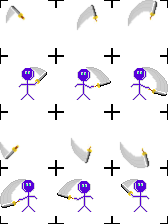
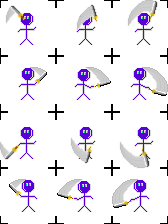
fixed the animation problems! now it kinda works! but it needs more fleshing out.

diff --git a/src/player.py b/src/player.py
@@ -1,8 +1,9 @@
 import pygame as pg
-from .sprite import Character
+from .sprite import Character, Decal
 from .compass import Compass
 
 DEFAULT_ANIMATION = 'stand'
+NULL_PATH = "./assets/dummy/null.png"
 
 class Player(Character):
     def __init__(self, **options):
@@ -27,6 +28,13 @@ class Player(Character):
         self.key_frame_groups = {}
         self.animation = {}
         self.default_image = self.image
+        self.alt_image = Decal(**{
+            "game": self.game,
+            "asset_path": NULL_PATH,
+            "startx":0,
+            "starty":0,
+        })
+        self.game.groups['player'].add(self.alt_image)
 
         for animation in self.options['animations']:
             # load in each animation for a character 
@@ -63,9 +71,9 @@ class Player(Character):
                 ]
             self.animation[animation['id']] = animation
             self.animation[animation['id']]['key_frames'] = key_frame_group
-            
-        # TODO: make it so the group can change  
+             
         self.animate_data = self.animation[DEFAULT_ANIMATION]
+        self.null_image = self.animation['null']['key_frames'][0][0]
 
 
     def update(self):
@@ -97,19 +105,17 @@ class Player(Character):
 
 
     def set_image(self, image):
+        if self.image == self.null_image:
+            self.alt_image.image = self.null_image
         self.image = image
         if image is None: return
-        # rect = self.image.get_rect()
-        # if self.rect.size != rect.size: return
-        # center = self.rect.center
-        # self.rect = rect
-        # self.mask = pg.mask.from_surface(self.image)
-        # self.rect.center = center
-        # FIXME: The clipping is still here and they are not centered
-        
-        # OOHHH I have an idea! Set the image to null and load
-        # an image on top of it. Call it animation_image, put it in 
-        # the player sprite group and then you can keep your.
+        if self.rect.size == image.get_rect().size: return
+        # set image to blank
+        # then just paste the new image on top of it
+        self.image = self.null_image
+        self.alt_image.image = image
+        self.alt_image.rect = self.alt_image.image.get_rect()
+        self.alt_image.rect.center = self.rect.center
 
 
     def animate(self):

diff --git a/src/sprite.py b/src/sprite.py
@@ -7,16 +7,7 @@ import pygame as pg
 from.dict_obj import DictObj
 
 
-class BaseSprite(pg.sprite.Sprite):
-    """
-    Interface for sprites. Anything that inherits from it must 
-    implement the "update()" method or else it throws errors.
-    """      
-    def update(self):
-        raise NotImplementedError("update_function has not been overriden.")
-
-
-class Decal(BaseSprite):
+class Decal(pg.sprite.Sprite):
     """
     Simple Sprite that accepts basic input.
     Backgrounds and other non-interacting sprites

diff --git a/src/camera.py b/src/camera.py
@@ -5,7 +5,7 @@ import pygame as pg
 class Camera:
     def __init__(self, game):
         self.game = game
-        self.player = self.game.groups['player'].sprites()[0]
+        self.player = self.game.groups['player'].sprites()[-1]
         self.mobile_groups = list(self.game.groups.keys())
         self.mobile_groups.remove('hud')
         self.mobile_groups.remove('misc')

diff --git a/src/game_state.py b/src/game_state.py
@@ -49,7 +49,7 @@ class GameState(DictObj):
     def process_inputs(self, action):
         # TODO add more to this so that other characters move and act
         if not self.paused:
-            player = self.groups['player'].sprites()[0]
+            player = self.groups['player'].sprites()[-1]
             player.add_todo(action)
 
 
